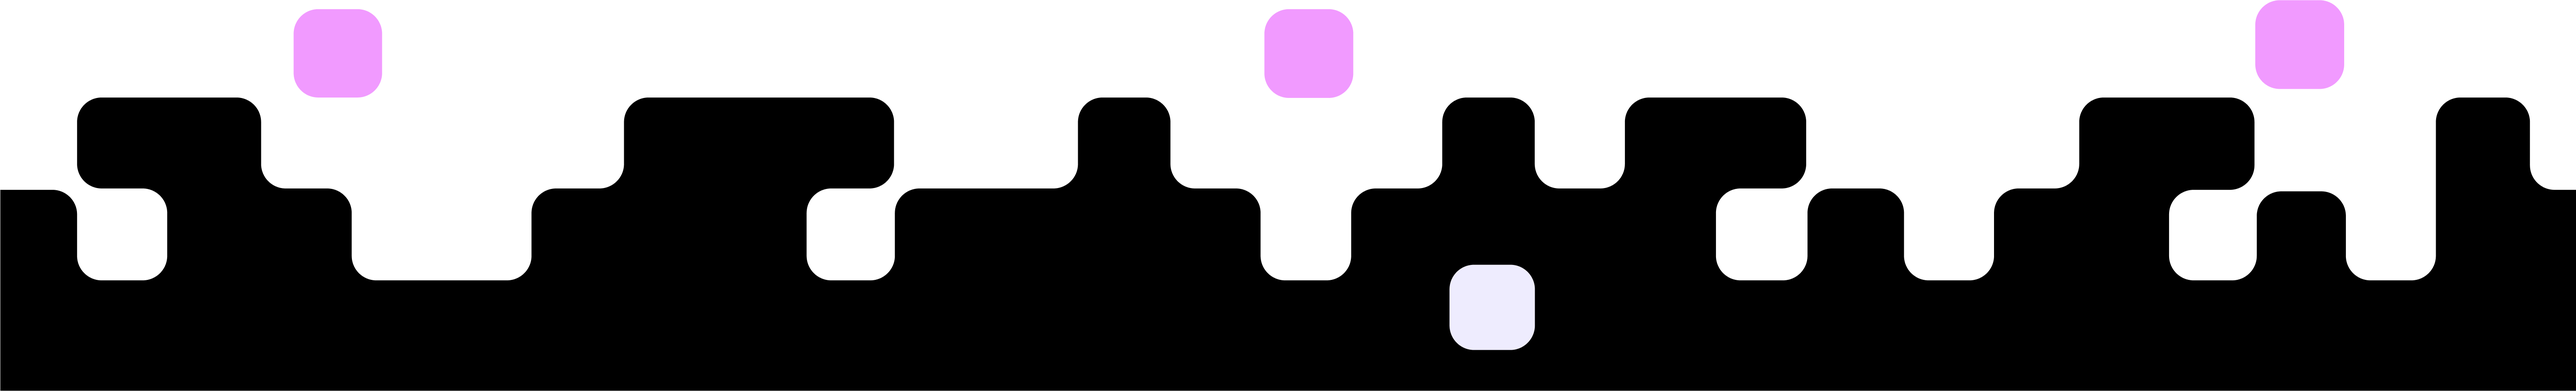
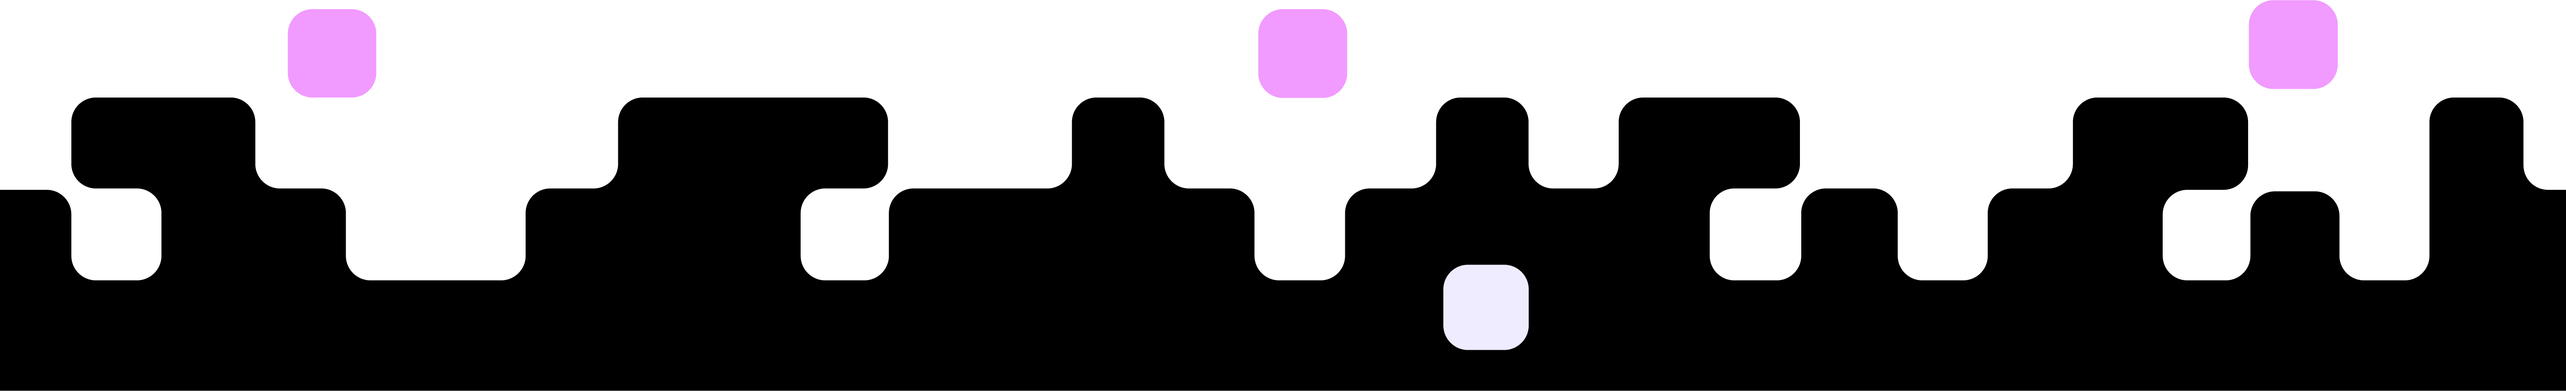
add repeat to patterns

diff --git a/src/components/Chain/ChainFeaturesSection.tsx b/src/components/Chain/ChainFeaturesSection.tsx
@@ -10,6 +10,7 @@ import { TbArrowUpRight } from 'react-icons/tb';
 import { device } from '../../../src/config/globals';
 import { useSiteBaseUrl } from '../../utils/useSiteBaseUrl';
 
+import ImageBg from '@site/static/assets/website/chain/chainFeaturesDivider@3x.png';
 import { Button, ItemH, Image } from '@site/src/css/SharedStyling';
 import ImageHolder from '../../../src/components/ImageHolder';
 
@@ -36,20 +37,8 @@ const ChainFeaturesSection: FC<ChainFeaturesSectionProps> = () => {
   };
   return (
     <ChainFeaturesContainer>
-      <DividerImg
-        src={
-          require(`@site/static/assets/website/chain/chainFeaturesDivider.png`)
-            .default
-        }
-        srcSet={`${
-          require('/static/assets/website/chain/chainFeaturesDivider@2x.png')
-            .default
-        } 2x, ${require('/static/assets/website/chain/chainFeaturesDivider@3x.png').default} 3x`}
-        alt={`Chain Features Divider`}
-        width='-webkit-fill-available'
-        height='auto'
-        loading='lazy'
-      />
+      <DividerImg />
+
       <ChainFeaturesWrapper>
         <InnerContainer>
           <HeaderContainer>
@@ -219,17 +208,8 @@ const ChainFeaturesSection: FC<ChainFeaturesSectionProps> = () => {
           </HeaderTwoContainer>
         </InnerContainer>
       </ChainFeaturesWrapper>
-      <DividerImg
-        srcSet={`${
-          require('/static/assets/website/chain/chainFeaturesDivider@2x.png')
-            .default
-        } 2x, ${require('/static/assets/website/chain/chainFeaturesDivider@3x.png').default} 3x`}
-        alt={`Chain Features Divider`}
-        width='-webkit-fill-available'
-        height='auto'
-        loading='lazy'
-        className='inverted-divider'
-      />
+
+      <DividerImg inverted />
     </ChainFeaturesContainer>
   );
 };
@@ -253,14 +233,21 @@ const ChainFeaturesContainer = styled.div`
   }
 `;
 
-const DividerImg = styled.img`
-  width: -webkit-fill-available;
+const DividerImg = styled.div`
+  width: 100%;
+  height: 200px;
+  background-image: url(${ImageBg});
+  background-repeat: repeat-x;
+  background-size: contain;
+  background-position: ${({ inverted }) => (inverted ? 'top' : 'bottom')};
+  transform: ${({ inverted }) => (inverted ? 'rotate(180deg)' : 'none')};
 `;
 
 const ChainFeaturesWrapper = styled.div`
   background-color: #000000;
   margin: -4px 0px;
   width: -webkit-fill-available;
+  padding: 150px 0;
 `;
 
 const InnerContainer = styled.div`

diff --git a/src/components/Chain/ChainFooter.tsx b/src/components/Chain/ChainFooter.tsx
@@ -24,6 +24,7 @@ import DiscordSVG from '@site/static/assets/website/shared/discord.svg';
 import GithubSVG from '@site/static/assets/website/shared/github.svg';
 import useMediaQuery from '@site/src/hooks/useMediaQuery';
 import PushLogo from '@site/static/assets/website/brb/pushIcon.svg';
+import ImageBg from '@site/static/assets/website/chain/chainFeaturesDivider@3x.png';
 
 // Internal Configs
 import { device } from '@site/src/config/globals';
@@ -73,20 +74,7 @@ function ChainFooter() {
 
   return (
     <ChainFooterContainer>
-      <DividerImg
-        src={
-          require(`@site/static/assets/website/chain/chainFeaturesDivider.png`)
-            .default
-        }
-        srcSet={`${
-          require('/static/assets/website/chain/chainFeaturesDivider@2x.png')
-            .default
-        } 2x, ${require('/static/assets/website/chain/chainFeaturesDivider@3x.png').default} 3x`}
-        alt={`Chain Features Divider`}
-        width='-webkit-fill-available'
-        height='auto'
-        loading='lazy'
-      />
+      <DividerImg />
       <StyledFooter>
         <FooterSection id='footer'>
           <Content alignSelf='center'>
@@ -204,6 +192,16 @@ function ChainFooter() {
   );
 }
 
+const DividerImg = styled.div`
+  width: 100%;
+  height: 200px;
+  background-image: url(${ImageBg});
+  background-repeat: repeat-x;
+  background-size: contain;
+  background-position: ${({ inverted }) => (inverted ? 'top' : 'bottom')};
+  transform: ${({ inverted }) => (inverted ? 'rotate(180deg)' : 'none')};
+`;
+
 const ChainFooterContainer = styled.div`
   align-items: flex-start;
   display: flex;
@@ -218,10 +216,6 @@ const StyledFooter = styled.footer`
   background: #000;
   width: 100%;
   margin: -4px auto;
-`;
-
-const DividerImg = styled.img`
-  width: -webkit-fill-available;
 `;
 
 const FooterSection = styled(Section)``;
